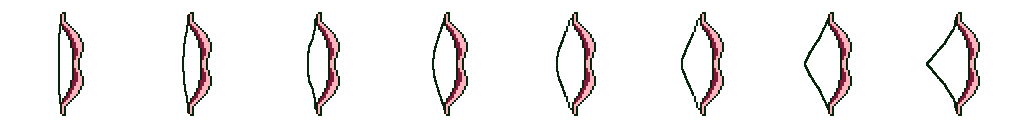
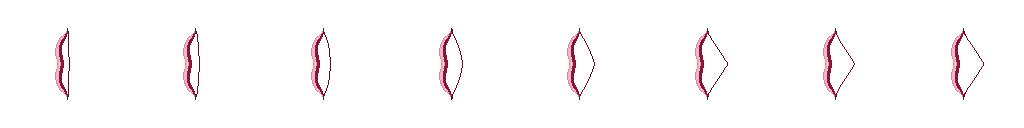
bow and arrow implemented

diff --git a/minimi-engine/Systems/SSpawner.cpp b/minimi-engine/Systems/SSpawner.cpp
@@ -33,7 +33,69 @@ std::shared_ptr<Entity> SSpawner::spawnPlayer() {
     
     player_->cBoxCollider = std::make_shared<CBoxCollider>(cupid_collider);
     
+    // Spawn cupid's bow
+    spawnBow();
+    
     return player_;
+}
+
+void SSpawner::spawnBow() {
+    bow_ = entityManager_->addEntity("Bow");
+    SDL_Texture* bow_texture = renderer_->loadTexture("cupid_bow.png");
+    bow_->cSprite = std::make_shared<CSprite>(bow_texture, 128, 128);
+    
+    std::vector<SDL_Rect> bow_clips;
+    for (int i = 0; i < 8; i++) {
+        int h = bow_->cSprite->getHeight();
+        int w = bow_->cSprite->getWidth();
+        SDL_Rect clip = { i * w, 0, w, h };
+        bow_clips.push_back(clip);
+    }
+    bow_->cAnimator = std::make_shared<CAnimator>(8, 8, bow_clips);
+    
+    Vec2 bow_pos (player_->cTransform->pos.x + 50, player_->cTransform->pos.y);
+    Vec2 bow_velo (0.0, 0.0);
+    
+    int p_width = player_->cSprite->getWidth();
+    int p_height = player_->cSprite->getHeight();
+    
+    bow_->cTransform = std::make_shared<CTransform>(player_->cTransform->speed, bow_pos, bow_velo, 0.0, SDL_FLIP_NONE);
+    SDL_Point center = { p_width - 10, p_height / 2 };
+    bow_->cTransform->center = center;
+    
+    // Note: the bow doesn't need a collider, so we can just ignore that
+    
+    // TODO: delete this
+    spawnArrow();
+}
+
+std::shared_ptr<Entity> SSpawner::spawnArrow() {
+    std::shared_ptr<Entity> arrow = entityManager_->addEntity("Arrow");
+    
+    // Make the sprite component
+    SDL_Texture* arrow_texture = renderer_->loadTexture("cupid_arrow.png");
+    arrow->cSprite = std::make_shared<CSprite>(arrow_texture, 128, 128);
+     
+    // Make the transform component
+    Vec2 arrow_pos (bow_->cTransform->pos.x + 20, player_->cTransform->pos.y);
+    Vec2 arrow_velo (0.0, 0.0);
+    
+    arrow->cTransform = std::make_shared<CTransform>(player_->cTransform->speed, arrow_pos, arrow_velo, bow_->cTransform->degrees, SDL_FLIP_NONE);
+    
+    int p_width = player_->cSprite->getWidth();
+    int p_height = player_->cSprite->getHeight();
+    
+    SDL_Point center = { p_width + 10, p_height / 2 };
+    arrow->cTransform->center = center;
+    
+    // Make the collider component
+    int x = static_cast<int>(arrow_pos.x);
+    int y = static_cast<int>(arrow_pos.y);
+    SDL_Rect arrow_collider = { x + 60, y + 60, player_->cSprite->getWidth() / 8, player_->cSprite->getHeight() / 8 };
+    
+    arrow->cBoxCollider = std::make_shared<CBoxCollider>(arrow_collider);
+    
+    return arrow;
 }
 
 /** Spawn a single NPC (enemy)! **/
@@ -57,7 +119,7 @@ std::shared_ptr<Entity> SSpawner::spawnEnemy() {
     int range = 360 + 1;
     float npc_angle = (std::rand() % range) * M_PI / 180;
     
-    Vec2 dist = Vec2(cosf(npc_angle), sinf(npc_angle)) * 600;
+    Vec2 dist = Vec2(cosf(npc_angle * 180 / M_PI), sinf(npc_angle * 180 / M_PI)) * 600;
     Vec2 p_pos = player_->cTransform->pos;
     Vec2 npc_pos = p_pos + dist;
     

diff --git a/minimi-engine/Systems/SMovement.cpp b/minimi-engine/Systems/SMovement.cpp
@@ -8,12 +8,15 @@
 #include "SMovement.hpp"
 
 /** Move an entity (for now, just NPCs) according to the target set in their Transform. **/
-void moveEntity(std::shared_ptr<Entity> entityToMove) {
+void moveNPC(std::shared_ptr<Entity> entityToMove) {
     if (entityToMove->cTransform && entityToMove->getTag() != "Player") {
         float speed = entityToMove->cTransform->speed;
+        
+        // Get the vector pointing towards the player
         Vec2 dist_vec = entityToMove->cTransform->getTarget() - entityToMove->cTransform->pos;
         dist_vec.normalize();
         
+        // Flip the NPC if needed
         if (dist_vec.x < 0) {
             entityToMove->cTransform->flip = SDL_FLIP_HORIZONTAL;
         } else {
@@ -22,9 +25,11 @@ void moveEntity(std::shared_ptr<Entity> entityToMove) {
         
         Vec2 old_pos = entityToMove->cTransform->pos; // Shallow copy for collider
         
+        // Move the NPC towards the player
         entityToMove->cTransform->velocity = dist_vec * speed;
         entityToMove->cTransform->pos.add(entityToMove->cTransform->velocity);
-        
+         
+        // Move the NPC's collider
         // This ensures that an offsetted collider will still follow the entity correctly
         int x = static_cast<int>(entityToMove->cTransform->pos.x) - static_cast<int>(old_pos.x);
         int y = static_cast<int>(entityToMove->cTransform->pos.y) - static_cast<int>(old_pos.y);
@@ -104,4 +109,34 @@ void movePlayer(std::shared_ptr<Entity> player, Inputs *inputs) {
         player->cBoxCollider->collider.x += x;
         player->cBoxCollider->collider.y += y;
     }
+}
+
+/** Rotate the bow around the player in a circle. */
+void moveBow(std::shared_ptr<Entity> bow, std::shared_ptr<Entity> player) {
+    Vec2 p_pos = player->cTransform->pos;
+    
+    int p_width = player->cSprite->getWidth();
+    
+    bow->cTransform->pos = p_pos - Vec2(p_width / 2 - 10, 0);
+    bow->cTransform->degrees = static_cast<double>((static_cast<int>(bow->cTransform->degrees) - 1) % 360);
+}
+
+void moveArrow(std::shared_ptr<Entity> arrow, std::shared_ptr<Entity> bow, std::shared_ptr<Entity> player) {
+    Vec2 p_pos = player->cTransform->pos;
+    
+    int p_width = player->cSprite->getWidth();
+    
+    arrow->cTransform->pos = p_pos - Vec2(p_width / 2 + 10, 0);
+    arrow->cTransform->degrees = bow->cTransform->degrees;
+    
+    // ------ Move collider! ------
+    // Convert rotation degrees to radians
+    float angle = static_cast<float>(arrow->cTransform->degrees) * M_PI / 180;
+    
+    Vec2 p_center = { p_pos.x + p_width / 2, p_pos.y + p_width / 2 }; // Get the center of the AABB
+    Vec2 new_pos = p_center + Vec2(cosf(angle - M_PI) * 74, sinf(angle - M_PI) * 74);
+    new_pos.subtract(Vec2(8, 8)); // re-center according to collision center
+    
+    arrow->cBoxCollider->collider.x = static_cast<int>(new_pos.x);
+    arrow->cBoxCollider->collider.y = static_cast<int>(new_pos.y);
 }

diff --git a/minimi-engine/Game.cpp b/minimi-engine/Game.cpp
@@ -69,22 +69,30 @@ void Game::update() {
     // -------- PLAYER UPDATE --------
     movePlayer(player, getInputs()); // Move player
     player->cAnimator->incrementFrame(); // Animate player
-
+     
+    // ------- BOW UPDATE -------
+    for (auto& e : entityManager->getEntities("Bow")) {
+        moveBow(e, player);
+    }
+    
+    // ------- ARROW UPDATE -------
+    for (auto& e : entityManager->getEntities("Arrow")) {
+        moveArrow(e, spawner->getBow(), player);
+    }
+    
     // -------- NPC UPDATE --------
     // Spawn an enemy
-    if (entityManager->getNumEntities() < MAX_ENTITIES) spawner->spawnEnemy();
+    spawner->spawnEnemy();
     // Iterate through NPCs
     for (auto& e : entityManager->getEntities("NPC")) {
         // -------- MOVEMENT & AI --------
         // Update transforms based on movement
         if (e->cTransform) spawner->updateEnemy(e);
-        if (e->cTransform) moveEntity(e);
+        if (e->cTransform) moveNPC(e);
         
         // -------- PHYSICS --------
         if (e->cBoxCollider) {
-            if (checkCollision(player, e)) {
-                e->destroy();
-            }
+            if (checkCollision(player, e)) e->destroy(); // TODO: change this later for collision with an arrow
         }
         
         // -------- ANIMATION --------

diff --git a/minimi-engine/Systems/SRenderer.cpp b/minimi-engine/Systems/SRenderer.cpp
@@ -48,18 +48,19 @@ void SRenderer::draw(std::shared_ptr<Entity> e) {
     
     SDL_SetTextureScaleMode(e->cSprite->texture, SDL_ScaleModeBest);
     
-    SDL_Rect* currentClip;
-    if (e->cAnimator) {
-        currentClip = &e->cAnimator->getSpriteClips()->at(e->cAnimator->getCurrentFrame());
-    } else {
-        currentClip = NULL;
-    }
+    SDL_Rect* currentClip = NULL;
+    if (e->cAnimator) currentClip = &e->cAnimator->getSpriteClips()->at(e->cAnimator->getCurrentFrame());
     
-    SDL_RenderCopyEx(renderer_, e->cSprite->texture, currentClip, &renderQuad, angle, NULL, flip);
+    SDL_Point* centerOfRotation = NULL;
+    if (!(e->cTransform->center.x == 0 && e->cTransform->center.y == 0)) centerOfRotation = &e->cTransform->center;
+    
+    SDL_RenderCopyEx(renderer_, e->cSprite->texture, currentClip, &renderQuad, angle, centerOfRotation, flip);
     
 #if (DEBUG ==1)
-    SDL_SetRenderDrawColor(renderer_, 200, 200, 255, 255);
-    SDL_RenderDrawRect(renderer_, &e->cBoxCollider->collider);
+    if (e->cBoxCollider) {
+        SDL_SetRenderDrawColor(renderer_, 200, 200, 255, 255);
+        SDL_RenderDrawRect(renderer_, &e->cBoxCollider->collider);
+    }
 #endif
 };
 

diff --git a/minimi-engine/Systems/SSpawner.hpp b/minimi-engine/Systems/SSpawner.hpp
@@ -26,14 +26,22 @@ public:
              SRenderer* r,
              const int& sr) : entityManager_(em), renderer_(r), spawnRate_(sr) {};
     
+    std::shared_ptr<Entity> getPlayer() { return player_; };
+    std::shared_ptr<Entity> getBow() { return bow_; };
+    
     std::shared_ptr<Entity> spawnPlayer();
     std::shared_ptr<Entity> spawnEnemy();
+    std::shared_ptr<Entity> spawnArrow();
+    
     void updateEnemy(std::shared_ptr<Entity> npc);
     
 private:
     EntityManager* entityManager_;
     SRenderer* renderer_;
     std::shared_ptr<Entity> player_; // Needs player entity to be able to calculate initial pos
+    std::shared_ptr<Entity> bow_; // Needs bow entity to calculate initial arrow pos
+    
+    void spawnBow(); // spawnPlayer should privately call this method
     
     // Manage spawn rate
     int counter_ = 0;

diff --git a/minimi-engine/Systems/SMovement.hpp b/minimi-engine/Systems/SMovement.hpp
@@ -12,8 +12,11 @@
 #include "SInput.hpp"
 #include "Entity.hpp"
 #include "Vec2.hpp"
+#include "Utils.hpp"
 
-void moveEntity(std::shared_ptr<Entity> entityToMove);
+void moveNPC(std::shared_ptr<Entity> entityToMove);
 void movePlayer(std::shared_ptr<Entity> player, Inputs *inputs);
+void moveBow(std::shared_ptr<Entity> bow, std::shared_ptr<Entity> player);
+void moveArrow(std::shared_ptr<Entity> arrow, std::shared_ptr<Entity> bow, std::shared_ptr<Entity> player);
 
 #endif /* SMovement_hpp */

diff --git a/minimi-engine/Systems/SCollision.cpp b/minimi-engine/Systems/SCollision.cpp
@@ -7,6 +7,7 @@
 
 #include "SCollision.hpp"
 
+/** AABB Collision solver. */
 bool checkCollision(std::shared_ptr<Entity> a, std::shared_ptr<Entity> b) {
     SDL_Rect rect_a = a->cBoxCollider->collider;
     SDL_Rect rect_b = b->cBoxCollider->collider;
@@ -31,3 +32,8 @@ bool checkCollision(std::shared_ptr<Entity> a, std::shared_ptr<Entity> b) {
     
     return true;
 }
+
+// TODO: move collision box following code here instead
+//void updateCollider() {
+//    
+//}

diff --git a/minimi-engine/Components/CTransform.hpp b/minimi-engine/Components/CTransform.hpp
@@ -26,6 +26,7 @@ public:
     Vec2 pos = { 0.0, 0.0 };
     Vec2 velocity = { 0.0, 0.0 };
     double degrees = 0.0; // degrees rotated
+    SDL_Point center = { 0, 0 }; // center of rotation
     SDL_RendererFlip flip = SDL_FLIP_NONE; // all my sprites are loaded in facing right
     
     // if this is an npc, set the target to move towards

diff --git a/minimi-engine/EntityManager.cpp b/minimi-engine/EntityManager.cpp
@@ -50,6 +50,8 @@ void EntityManager::entityUpdate() {
     }
     
     totalEntities_ = totalEntities_ - (std::distance(new_end, entities_.end()));
+    
+    // Free memory
     entities_.erase(new_end, entities_.end());
     
     // Clear the waiting room for new entities
